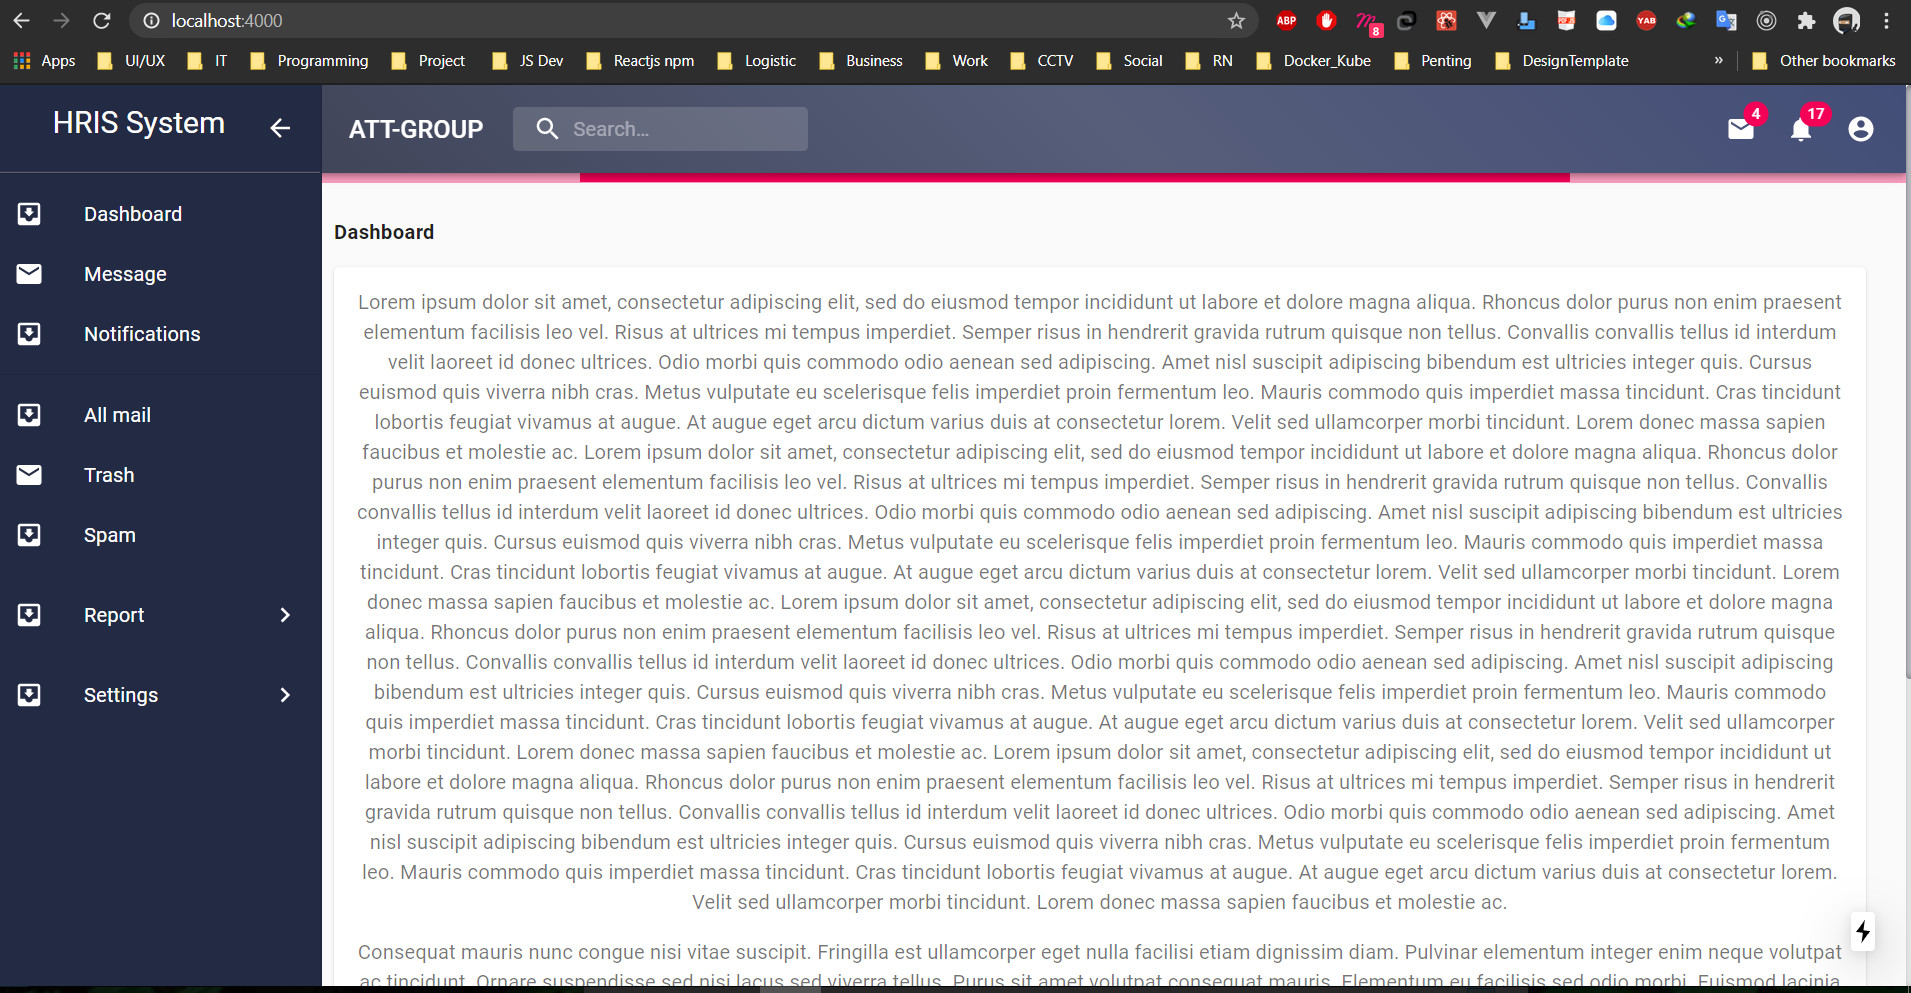
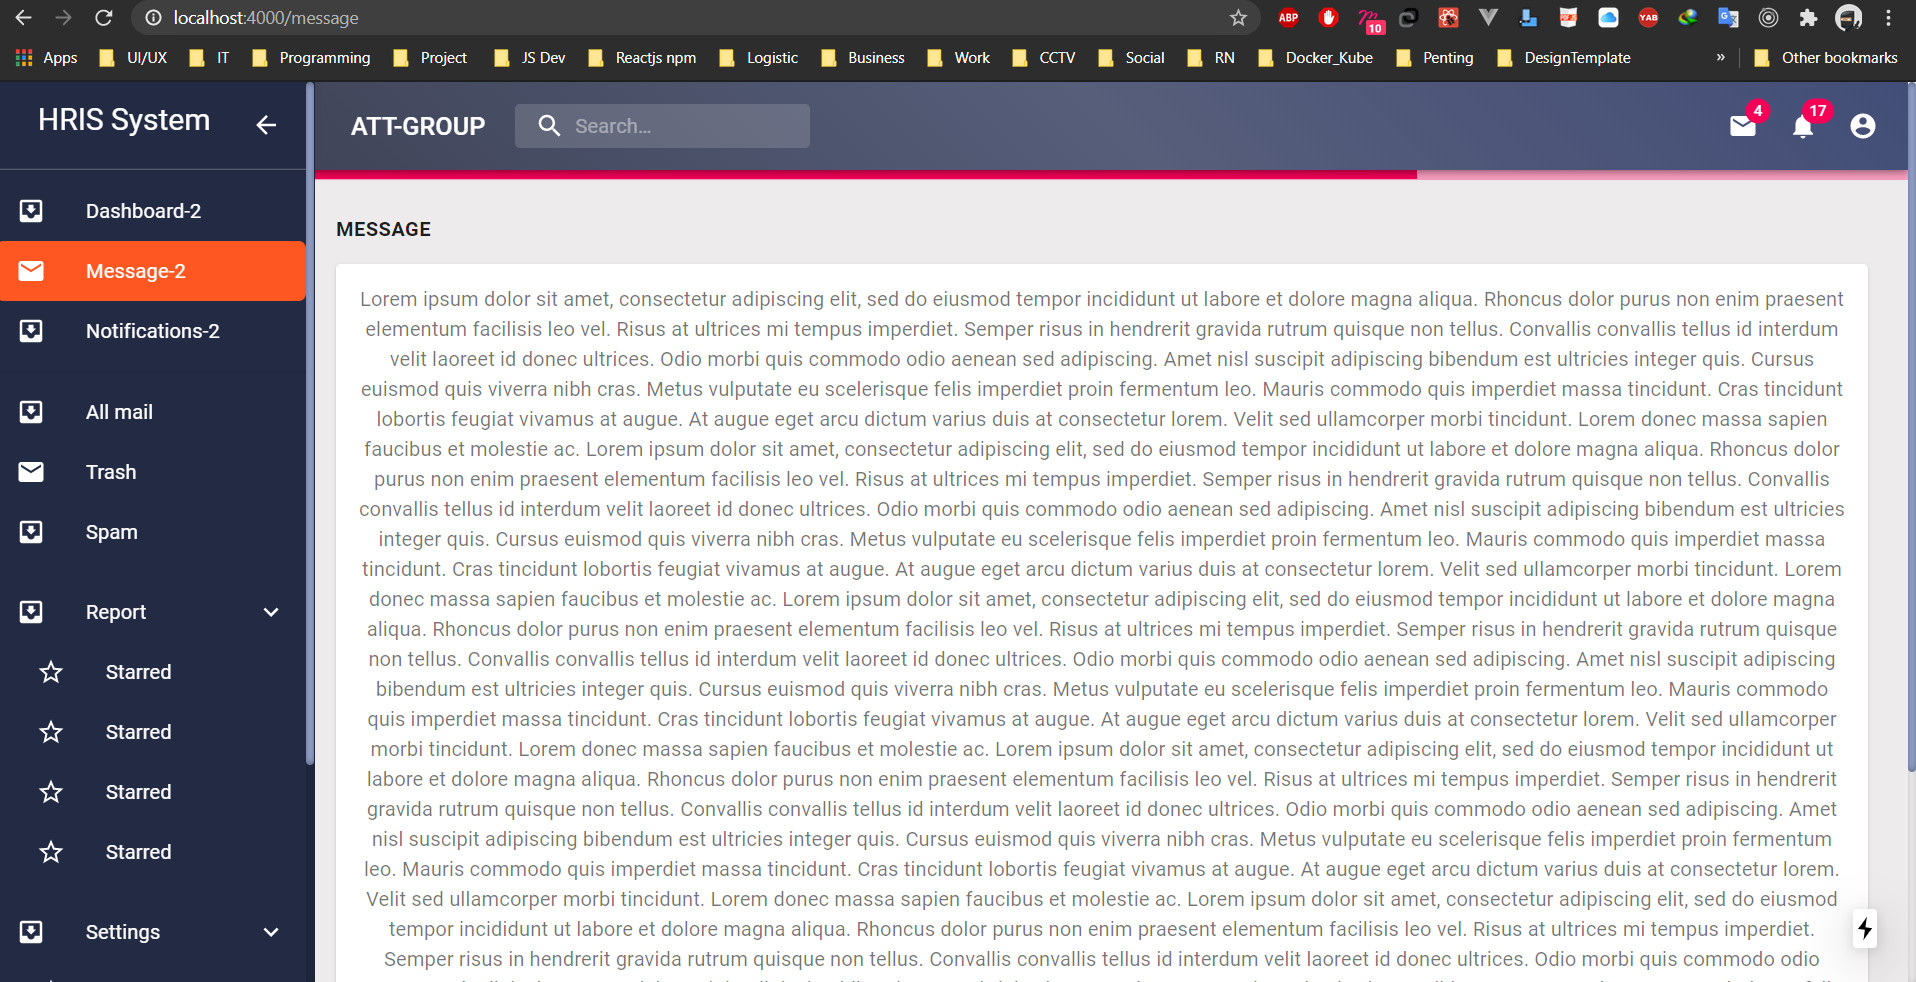
revisi

diff --git a/pages/notifications/Listdata.js b/pages/notifications/Listdata.js
@@ -1,0 +1,106 @@
+import React, { useState, useEffect, useCallback, useMemo } from "react";
+import Container from '@material-ui/core/Container';
+import Typography from '@material-ui/core/Typography';
+import LinearProgress from '@material-ui/core/LinearProgress';
+import { makeStyles } from '@material-ui/core/styles';
+import Paper from '@material-ui/core/Paper';
+import Grid from '@material-ui/core/Grid';
+
+const useStyles = makeStyles((theme) => ({
+  root: {
+    flexGrow: 1,
+  },
+  paper: {
+    padding: theme.spacing(2),
+    textAlign: 'center',
+    color: theme.palette.text.secondary,
+  },
+}));
+
+export default function Listdata() {
+  const classes = useStyles();
+  const [loadingProgress, setLoadingProgress] = useState(true);
+
+  
+  // <h2><LinearProgress color="secondary" /></h2>
+
+
+  return (
+    <>
+      <div className={classes.root}>
+      <Grid container spacing={2}>
+        <Grid item xs={12}>
+          <h3>Notifications</h3>
+          <Paper className={classes.paper}>
+          <Typography>
+                Lorem ipsum dolor sit amet, consectetur adipiscing elit, sed do eiusmod tempor incididunt
+                ut labore et dolore magna aliqua. Rhoncus dolor purus non enim praesent elementum
+                facilisis leo vel. Risus at ultrices mi tempus imperdiet. Semper risus in hendrerit
+                gravida rutrum quisque non tellus. Convallis convallis tellus id interdum velit laoreet id
+                donec ultrices. Odio morbi quis commodo odio aenean sed adipiscing. Amet nisl suscipit
+                adipiscing bibendum est ultricies integer quis. Cursus euismod quis viverra nibh cras.
+                Metus vulputate eu scelerisque felis imperdiet proin fermentum leo. Mauris commodo quis
+                imperdiet massa tincidunt. Cras tincidunt lobortis feugiat vivamus at augue. At augue eget
+                arcu dictum varius duis at consectetur lorem. Velit sed ullamcorper morbi tincidunt. Lorem
+                donec massa sapien faucibus et molestie ac.
+                Lorem ipsum dolor sit amet, consectetur adipiscing elit, sed do eiusmod tempor incididunt
+                ut labore et dolore magna aliqua. Rhoncus dolor purus non enim praesent elementum
+                facilisis leo vel. Risus at ultrices mi tempus imperdiet. Semper risus in hendrerit
+                gravida rutrum quisque non tellus. Convallis convallis tellus id interdum velit laoreet id
+                donec ultrices. Odio morbi quis commodo odio aenean sed adipiscing. Amet nisl suscipit
+                adipiscing bibendum est ultricies integer quis. Cursus euismod quis viverra nibh cras.
+                Metus vulputate eu scelerisque felis imperdiet proin fermentum leo. Mauris commodo quis
+                imperdiet massa tincidunt. Cras tincidunt lobortis feugiat vivamus at augue. At augue eget
+                arcu dictum varius duis at consectetur lorem. Velit sed ullamcorper morbi tincidunt. Lorem
+                donec massa sapien faucibus et molestie ac.
+                Lorem ipsum dolor sit amet, consectetur adipiscing elit, sed do eiusmod tempor incididunt
+                ut labore et dolore magna aliqua. Rhoncus dolor purus non enim praesent elementum
+                facilisis leo vel. Risus at ultrices mi tempus imperdiet. Semper risus in hendrerit
+                gravida rutrum quisque non tellus. Convallis convallis tellus id interdum velit laoreet id
+                donec ultrices. Odio morbi quis commodo odio aenean sed adipiscing. Amet nisl suscipit
+                adipiscing bibendum est ultricies integer quis. Cursus euismod quis viverra nibh cras.
+                Metus vulputate eu scelerisque felis imperdiet proin fermentum leo. Mauris commodo quis
+                imperdiet massa tincidunt. Cras tincidunt lobortis feugiat vivamus at augue. At augue eget
+                arcu dictum varius duis at consectetur lorem. Velit sed ullamcorper morbi tincidunt. Lorem
+                donec massa sapien faucibus et molestie ac.
+                Lorem ipsum dolor sit amet, consectetur adipiscing elit, sed do eiusmod tempor incididunt
+                ut labore et dolore magna aliqua. Rhoncus dolor purus non enim praesent elementum
+                facilisis leo vel. Risus at ultrices mi tempus imperdiet. Semper risus in hendrerit
+                gravida rutrum quisque non tellus. Convallis convallis tellus id interdum velit laoreet id
+                donec ultrices. Odio morbi quis commodo odio aenean sed adipiscing. Amet nisl suscipit
+                adipiscing bibendum est ultricies integer quis. Cursus euismod quis viverra nibh cras.
+                Metus vulputate eu scelerisque felis imperdiet proin fermentum leo. Mauris commodo quis
+                imperdiet massa tincidunt. Cras tincidunt lobortis feugiat vivamus at augue. At augue eget
+                arcu dictum varius duis at consectetur lorem. Velit sed ullamcorper morbi tincidunt. Lorem
+                donec massa sapien faucibus et molestie ac.
+                Lorem ipsum dolor sit amet, consectetur adipiscing elit, sed do eiusmod tempor incididunt
+                ut labore et dolore magna aliqua. Rhoncus dolor purus non enim praesent elementum
+                facilisis leo vel. Risus at ultrices mi tempus imperdiet. Semper risus in hendrerit
+                gravida rutrum quisque non tellus. Convallis convallis tellus id interdum velit laoreet id
+                donec ultrices. Odio morbi quis commodo odio aenean sed adipiscing. Amet nisl suscipit
+                adipiscing bibendum est ultricies integer quis. Cursus euismod quis viverra nibh cras.
+                Metus vulputate eu scelerisque felis imperdiet proin fermentum leo. Mauris commodo quis
+                imperdiet massa tincidunt. Cras tincidunt lobortis feugiat vivamus at augue. At augue eget
+                arcu dictum varius duis at consectetur lorem. Velit sed ullamcorper morbi tincidunt. Lorem
+                donec massa sapien faucibus et molestie ac.
+                Lorem ipsum dolor sit amet, consectetur adipiscing elit, sed do eiusmod tempor incididunt
+                ut labore et dolore magna aliqua. Rhoncus dolor purus non enim praesent elementum
+                facilisis leo vel. Risus at ultrices mi tempus imperdiet. Semper risus in hendrerit
+                gravida rutrum quisque non tellus. Convallis convallis tellus id interdum velit laoreet id
+                donec ultrices. Odio morbi quis commodo odio aenean sed adipiscing. Amet nisl suscipit
+                adipiscing bibendum est ultricies integer quis. Cursus euismod quis viverra nibh cras.
+                Metus vulputate eu scelerisque felis imperdiet proin fermentum leo. Mauris commodo quis
+                imperdiet massa tincidunt. Cras tincidunt lobortis feugiat vivamus at augue. At augue eget
+                arcu dictum varius duis at consectetur lorem. Velit sed ullamcorper morbi tincidunt. Lorem
+                donec massa sapien faucibus et molestie ac.
+            </Typography>
+          </Paper>
+        </Grid>
+      </Grid>
+    </div>
+        {/* {loadingProgress  && <LinearProgress color="secondary" />} */}
+        {/* <LinearProgress color="secondary" /> */}
+          
+    </>
+  );
+}

diff --git a/pages/message/Listdata.js b/pages/message/Listdata.js
@@ -1,0 +1,106 @@
+import React, { useState, useEffect, useCallback, useMemo } from "react";
+import Container from '@material-ui/core/Container';
+import Typography from '@material-ui/core/Typography';
+import LinearProgress from '@material-ui/core/LinearProgress';
+import { makeStyles } from '@material-ui/core/styles';
+import Paper from '@material-ui/core/Paper';
+import Grid from '@material-ui/core/Grid';
+
+const useStyles = makeStyles((theme) => ({
+  root: {
+    flexGrow: 1,
+  },
+  paper: {
+    padding: theme.spacing(2),
+    textAlign: 'center',
+    color: theme.palette.text.secondary,
+  },
+}));
+
+export default function Listdata() {
+  const classes = useStyles();
+  const [loadingProgress, setLoadingProgress] = useState(true);
+
+  
+  // <h2><LinearProgress color="secondary" /></h2>
+
+
+  return (
+    <>
+      <div className={classes.root}>
+      <Grid container spacing={2}>
+        <Grid item xs={12}>
+          <h3>MESSAGE</h3>
+          <Paper className={classes.paper}>
+          <Typography>
+                Lorem ipsum dolor sit amet, consectetur adipiscing elit, sed do eiusmod tempor incididunt
+                ut labore et dolore magna aliqua. Rhoncus dolor purus non enim praesent elementum
+                facilisis leo vel. Risus at ultrices mi tempus imperdiet. Semper risus in hendrerit
+                gravida rutrum quisque non tellus. Convallis convallis tellus id interdum velit laoreet id
+                donec ultrices. Odio morbi quis commodo odio aenean sed adipiscing. Amet nisl suscipit
+                adipiscing bibendum est ultricies integer quis. Cursus euismod quis viverra nibh cras.
+                Metus vulputate eu scelerisque felis imperdiet proin fermentum leo. Mauris commodo quis
+                imperdiet massa tincidunt. Cras tincidunt lobortis feugiat vivamus at augue. At augue eget
+                arcu dictum varius duis at consectetur lorem. Velit sed ullamcorper morbi tincidunt. Lorem
+                donec massa sapien faucibus et molestie ac.
+                Lorem ipsum dolor sit amet, consectetur adipiscing elit, sed do eiusmod tempor incididunt
+                ut labore et dolore magna aliqua. Rhoncus dolor purus non enim praesent elementum
+                facilisis leo vel. Risus at ultrices mi tempus imperdiet. Semper risus in hendrerit
+                gravida rutrum quisque non tellus. Convallis convallis tellus id interdum velit laoreet id
+                donec ultrices. Odio morbi quis commodo odio aenean sed adipiscing. Amet nisl suscipit
+                adipiscing bibendum est ultricies integer quis. Cursus euismod quis viverra nibh cras.
+                Metus vulputate eu scelerisque felis imperdiet proin fermentum leo. Mauris commodo quis
+                imperdiet massa tincidunt. Cras tincidunt lobortis feugiat vivamus at augue. At augue eget
+                arcu dictum varius duis at consectetur lorem. Velit sed ullamcorper morbi tincidunt. Lorem
+                donec massa sapien faucibus et molestie ac.
+                Lorem ipsum dolor sit amet, consectetur adipiscing elit, sed do eiusmod tempor incididunt
+                ut labore et dolore magna aliqua. Rhoncus dolor purus non enim praesent elementum
+                facilisis leo vel. Risus at ultrices mi tempus imperdiet. Semper risus in hendrerit
+                gravida rutrum quisque non tellus. Convallis convallis tellus id interdum velit laoreet id
+                donec ultrices. Odio morbi quis commodo odio aenean sed adipiscing. Amet nisl suscipit
+                adipiscing bibendum est ultricies integer quis. Cursus euismod quis viverra nibh cras.
+                Metus vulputate eu scelerisque felis imperdiet proin fermentum leo. Mauris commodo quis
+                imperdiet massa tincidunt. Cras tincidunt lobortis feugiat vivamus at augue. At augue eget
+                arcu dictum varius duis at consectetur lorem. Velit sed ullamcorper morbi tincidunt. Lorem
+                donec massa sapien faucibus et molestie ac.
+                Lorem ipsum dolor sit amet, consectetur adipiscing elit, sed do eiusmod tempor incididunt
+                ut labore et dolore magna aliqua. Rhoncus dolor purus non enim praesent elementum
+                facilisis leo vel. Risus at ultrices mi tempus imperdiet. Semper risus in hendrerit
+                gravida rutrum quisque non tellus. Convallis convallis tellus id interdum velit laoreet id
+                donec ultrices. Odio morbi quis commodo odio aenean sed adipiscing. Amet nisl suscipit
+                adipiscing bibendum est ultricies integer quis. Cursus euismod quis viverra nibh cras.
+                Metus vulputate eu scelerisque felis imperdiet proin fermentum leo. Mauris commodo quis
+                imperdiet massa tincidunt. Cras tincidunt lobortis feugiat vivamus at augue. At augue eget
+                arcu dictum varius duis at consectetur lorem. Velit sed ullamcorper morbi tincidunt. Lorem
+                donec massa sapien faucibus et molestie ac.
+                Lorem ipsum dolor sit amet, consectetur adipiscing elit, sed do eiusmod tempor incididunt
+                ut labore et dolore magna aliqua. Rhoncus dolor purus non enim praesent elementum
+                facilisis leo vel. Risus at ultrices mi tempus imperdiet. Semper risus in hendrerit
+                gravida rutrum quisque non tellus. Convallis convallis tellus id interdum velit laoreet id
+                donec ultrices. Odio morbi quis commodo odio aenean sed adipiscing. Amet nisl suscipit
+                adipiscing bibendum est ultricies integer quis. Cursus euismod quis viverra nibh cras.
+                Metus vulputate eu scelerisque felis imperdiet proin fermentum leo. Mauris commodo quis
+                imperdiet massa tincidunt. Cras tincidunt lobortis feugiat vivamus at augue. At augue eget
+                arcu dictum varius duis at consectetur lorem. Velit sed ullamcorper morbi tincidunt. Lorem
+                donec massa sapien faucibus et molestie ac.
+                Lorem ipsum dolor sit amet, consectetur adipiscing elit, sed do eiusmod tempor incididunt
+                ut labore et dolore magna aliqua. Rhoncus dolor purus non enim praesent elementum
+                facilisis leo vel. Risus at ultrices mi tempus imperdiet. Semper risus in hendrerit
+                gravida rutrum quisque non tellus. Convallis convallis tellus id interdum velit laoreet id
+                donec ultrices. Odio morbi quis commodo odio aenean sed adipiscing. Amet nisl suscipit
+                adipiscing bibendum est ultricies integer quis. Cursus euismod quis viverra nibh cras.
+                Metus vulputate eu scelerisque felis imperdiet proin fermentum leo. Mauris commodo quis
+                imperdiet massa tincidunt. Cras tincidunt lobortis feugiat vivamus at augue. At augue eget
+                arcu dictum varius duis at consectetur lorem. Velit sed ullamcorper morbi tincidunt. Lorem
+                donec massa sapien faucibus et molestie ac.
+            </Typography>
+          </Paper>
+        </Grid>
+      </Grid>
+    </div>
+        {/* {loadingProgress  && <LinearProgress color="secondary" />} */}
+        {/* <LinearProgress color="secondary" /> */}
+          
+    </>
+  );
+}

diff --git a/components/Lsidebar.js b/components/Lsidebar.js
@@ -159,6 +159,7 @@ export default function Lsidebar( {children, home} ) {
   const classes = useStyles();
   const theme = useTheme();
   const [open, setOpen] = React.useState(true);
+  const [activeMenu, setActiveMenu] = React.useState(0);
 
   const handleDrawerOpen = () => {
     setOpen(true);
@@ -355,11 +356,11 @@ export default function Lsidebar( {children, home} ) {
 
         <Divider />
         <List>
-          {['Dashboard', 'Message', 'Notifications'].map((text, index) => (
-            <Link href="/">
-              <ListItem button key={text}>
-                <ListItemIcon>{index % 2 === 0 ? <InboxIcon /> : <MailIcon />}</ListItemIcon>
-                <ListItemText primary={text} />
+          {[{id:1,title:'Dashboard',url:'/'},{id:2,title:'Message',url:'/message'}, {id:3,title:'Notifications',url:'/notifications'}].map((text, idx) => (
+            <Link href={text.url}>
+              <ListItem button key={idx} style={{backgroundColor:activeMenu===text.id?'#FF5722':''}}  onClick={()=>setActiveMenu(text.id)}>
+                <ListItemIcon>{idx % 2 === 0 ? <InboxIcon /> : <MailIcon />}</ListItemIcon>
+                <ListItemText primary={`${text.title}-${activeMenu}`} />
               </ListItem>
             </Link>
           ))}
@@ -367,7 +368,7 @@ export default function Lsidebar( {children, home} ) {
         <Divider />
         <List>
           {['All mail', 'Trash', 'Spam'].map((text, index) => (
-            <ListItem button key={text}>
+            <ListItem button key={index}>
               <ListItemIcon>{index % 2 === 0 ? <InboxIcon /> : <MailIcon />}</ListItemIcon>
               <ListItemText primary={text} />
             </ListItem>

diff --git a/public/mystyles.css b/public/mystyles.css
@@ -20,17 +20,23 @@
 .MuiIconButton-root .MuiIconButton-label {
     color: white;
 }
+.MuiListItem-gutters {
+    border-radius: 6px !important;
+}
 
 .app-name{
     min-height: 70px !important;
     border-bottom: 1px #9e9e9e70 solid;
     background: linear-gradient(45deg, #232a44, #232a44);
 }
+.MenuContentMain{
+    background: #edebeb;
+}
 .MuiMenu-paper {
     top: 55px;
 }
 .MuiDrawer-paperAnchorLeft{
-    width: 262px !important;
+    width: 255px !important;
 }
 
 .MuiAppBar-colorPrimary {
@@ -69,6 +75,12 @@
     position: inherit;
 }
 
+/* active menu */
+.activemenu{
+    background: red !important;
+}
+
+
 /* Let's get this party started */
 ::-webkit-scrollbar {
     width: 7px;
@@ -79,8 +91,8 @@
     -webkit-border-radius: 10px;
     border-radius: 10px;
 }
- 
-/* Handle */
+
+/* Handle scroll bar */
 ::-webkit-scrollbar-thumb {
     -webkit-border-radius: 10px;
     border-radius: 10px;

diff --git a/src/theme.js b/src/theme.js
@@ -5,7 +5,7 @@ import { red } from '@material-ui/core/colors';
 const theme = createMuiTheme({
   palette: {
     primary: {
-      main: '#556cd6',
+      main: '#232a44',
     },
     secondary: {
       main: '#19857b',
@@ -14,7 +14,7 @@ const theme = createMuiTheme({
       main: red.A400,
     },
     background: {
-      default: '#fff',
+      default: '#edebeb',
     },
   },
 });

diff --git a/pages/message/index.js b/pages/message/index.js
@@ -1,0 +1,16 @@
+import React from 'react';
+import Container from '@material-ui/core/Container';
+import Typography from '@material-ui/core/Typography';
+import Listdata from './Listdata'
+import Layout from '../../components/Layout'
+
+
+export default function Dashboard() {
+  return (
+    <>
+    <Layout>
+        <Listdata/>
+      </Layout>
+    </>
+  );
+}

diff --git a/pages/notifications/index.js b/pages/notifications/index.js
@@ -1,0 +1,16 @@
+import React from 'react';
+import Container from '@material-ui/core/Container';
+import Typography from '@material-ui/core/Typography';
+import Listdata from './Listdata'
+import Layout from '../../components/Layout'
+
+
+export default function Dashboard() {
+  return (
+    <>
+    <Layout>
+        <Listdata/>
+      </Layout>
+    </>
+  );
+}

diff --git a/components/Layout.js b/components/Layout.js
@@ -114,7 +114,7 @@ export default function Layout( {children, home} ) {
       <Lsidebar/>
 
       <main
-      style={{paddingTop:'100px'}}
+      style={{paddingTop:'100px',backgroundColor:'#edebeb'}}
         className={clsx(classes.content, {
           [classes.contentShift]: open,
         })}
